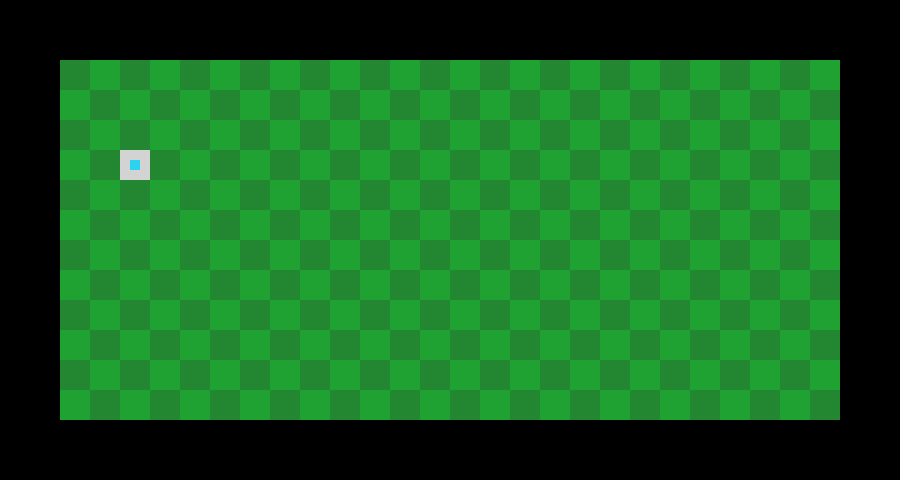
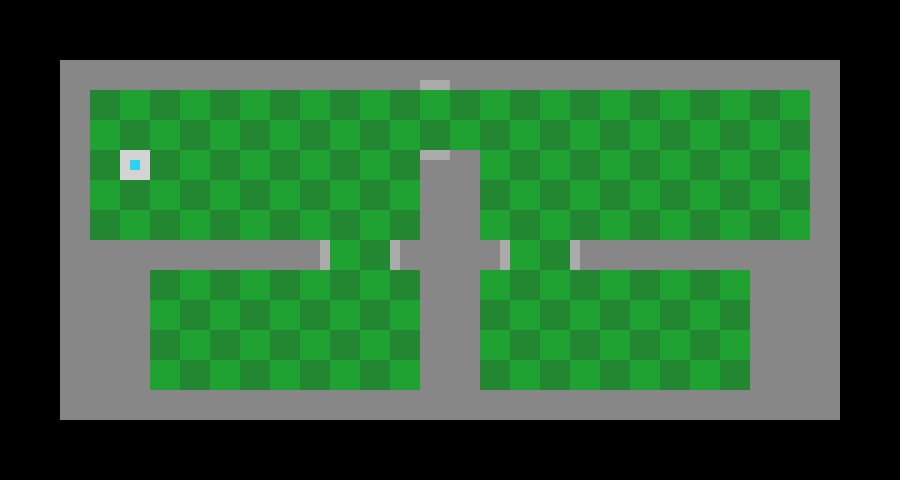
1.3
functional walls

Changed region(s): [[0.0622, 0.125, 0.9333, 0.875]]

diff --git a/script.js b/script.js
@@ -13,7 +13,7 @@ var player = {
   x: canvas.width / 2 - 30, //240
   y: canvas.height / 2 - 30, //420
   size: 60,
-  projection: [[1, 0], [-1, 0], [0, 1], [0, -1]]
+  projection: [[1, 0, 1], [-1, 0, 0], [0, 1, 3], [0, -1, 2]]
 };
 
 var bg = {
@@ -24,18 +24,58 @@ var bg = {
 }
 
 var gameBox = {
-  x: bg.x + 120,
-  y: bg.y + 120,
-  h: bg.h - 240,
-  w: bg.w - 240
+  x: bg.x + 180,
+  y: bg.y + 180,
+  h: bg.h - 360,
+  w: bg.w - 360
+}
+
+var walls = {
+  Ax: bg.x + 180,
+  Ay: bg.y + 480,
+  Aw: 120,
+  Ah: 300,
+  Bx: bg.x + 300,
+  By: bg.y + 480,
+  Bw: 360,
+  Bh: 60,
+  Cx: bg.x + 840,
+  Cy: bg.y + 300,
+  Cw: 120,
+  Ch: 480,
+  Dx: bg.x + 780,
+  Dy: bg.y + 480,
+  Dw: 240,
+  Dh: 60,
+  Ex: bg.x + 1140,
+  Ey: bg.y + 480,
+  Ew: 360,
+  Eh: 60,
+  Fx: bg.x + 1500,
+  Fy: bg.y + 480,
+  Fw: 120,
+  Fh: 300,  
+}
+
+var block = {
+  left: false,
+  right: false,
+  up: false,
+  down: false
 }
 
 // Funkce pro vykreslení hráče a pozadí
 function draw() {
   c.clearRect(0, 0, canvas.width, canvas.height);
-  c.drawImage(backgroundImage, bg.x, bg.y, bg.w, bg.h); 
   c.strokeRect(gameBox.x, gameBox.y, gameBox.w, gameBox.h);
-
+  c.strokeRect(walls.Ax, walls.Ay, walls.Aw, walls.Ah);
+  c.strokeRect(walls.Bx, walls.By, walls.Bw, walls.Bh);
+  c.strokeRect(walls.Cx, walls.Cy, walls.Cw, walls.Ch);
+  c.strokeRect(walls.Dx, walls.Dy, walls.Dw, walls.Dh);
+  c.strokeRect(walls.Ex, walls.Ey, walls.Ew, walls.Eh);
+  c.strokeRect(walls.Fx, walls.Fy, walls.Fw, walls.Fh);
+  c.drawImage(backgroundImage, bg.x, bg.y, bg.w, bg.h);
+  
   // Vykreslení hráče
   c.fillStyle = "red";
   c.fillRect(player.x, player.y, player.size, player.size);
@@ -46,42 +86,82 @@ function move(side) {
     case 1:
       bg.x += 60;
       gameBox.x += 60;
+      walls.Ax += 60;
+      walls.Bx += 60;
+      walls.Cx += 60;
+      walls.Dx += 60;
+      walls.Ex += 60;
+      walls.Fx += 60;
       break;
     case 2:
       bg.x -= 60;
       gameBox.x -= 60;
+      walls.Ax -= 60;
+      walls.Bx -= 60;
+      walls.Cx -= 60;
+      walls.Dx -= 60;
+      walls.Ex -= 60;
+      walls.Fx -= 60;
       break;
     case 3:
       bg.y += 60;
       gameBox.y += 60;
+      walls.Ay += 60;
+      walls.By += 60;
+      walls.Cy += 60;
+      walls.Dy += 60;
+      walls.Ey += 60;
+      walls.Fy += 60;
       break;
     case 4:
       bg.y -= 60;
       gameBox.y -= 60;
+      walls.Ay -= 60;
+      walls.By -= 60;
+      walls.Cy -= 60;
+      walls.Dy -= 60;
+      walls.Ey -= 60;
+      walls.Fy -= 60;    
       break;
   }
 }
 
 // Posluchači klávesnice pro posunutí pozadí
 window.addEventListener("keydown", function (event) {
+  
   switch (event.key) {
     case "ArrowLeft":
-      move(1);
+      if (!block.left) move(1);
       break;
     case "ArrowRight":
-      move(2);
+      if (!block.right) move(2);
       break;
     case 'ArrowUp':
-      move(3);
+      if (!block.up) move(3);
       break;
     case 'ArrowDown':
-      move(4);
+      if (!block.down) move(4);
       break;
-  }
+    }
+    
+    block.left = false; block.right = false; block.up = false; block.down = false;
+    
+    for ([x, y, num] of player.projection) {
+    let pr = { x: player.x + x * 60, y: player.y + y * 60 }
+    if (pr.x < gameBox.x) block.left = true;
+    else if (!(pr.x + player.size <= gameBox.x + gameBox.w)) block.right = true;
+    else if (!(pr.y + player.size <= gameBox.y + gameBox.h)) block.down = true;
+    else if (!(pr.y >= gameBox.y)) block.up = true;
 
-  for ([x, y] of player.projection) {
-    let pr = {x: player.x + x * 60, y: player.y + y * 60}
-    if (!(pr.x >= gameBox.x) || !(pr.x + player.size <= gameBox.x + gameBox.w)) console.log(pr.x, gameBox.x, 'end', pr.x + player.size, gameBox.x + gameBox.w);
+    for (let i = 0; i < 6; i++) {
+      let items = [[walls.Ax, walls.Ay, walls.Aw, walls.Ah], [walls.Bx, walls.By, walls.Bw, walls.Bh], [walls.Cx, walls.Cy, walls.Cw, walls.Ch], [walls.Dx, walls.Dy, walls.Dw, walls.Dh], [walls.Ex, walls.Ey, walls.Ew, walls.Eh], [walls.Fx, walls.Fy, walls.Fw, walls.Fh]];
+      let wall = items[i];
+      
+      if (num == 0 && pr.x >= wall[0] && pr.x < wall[0] + wall[2] && pr.y < wall[1] + wall[3] && pr.y >= wall[1]) block.left = true;
+      else if (num == 1 && pr.x >= wall[0] && pr.x < wall[0] + wall[2] && pr.y < wall[1] + wall[3] && pr.y >= wall[1]) block.right = true;
+      else if (num == 2 && pr.y >= wall[1] && pr.y < wall[1] + wall[3] && pr.x < wall[0] + wall[2] && pr.x >= wall[0]) block.up = true;
+      else if (num == 3 && pr.y >= wall[1] && pr.y < wall[1] + wall[3] && pr.x < wall[0] + wall[2] && pr.x >= wall[0]) block.down = true;
+    }
   }
 
   draw();
